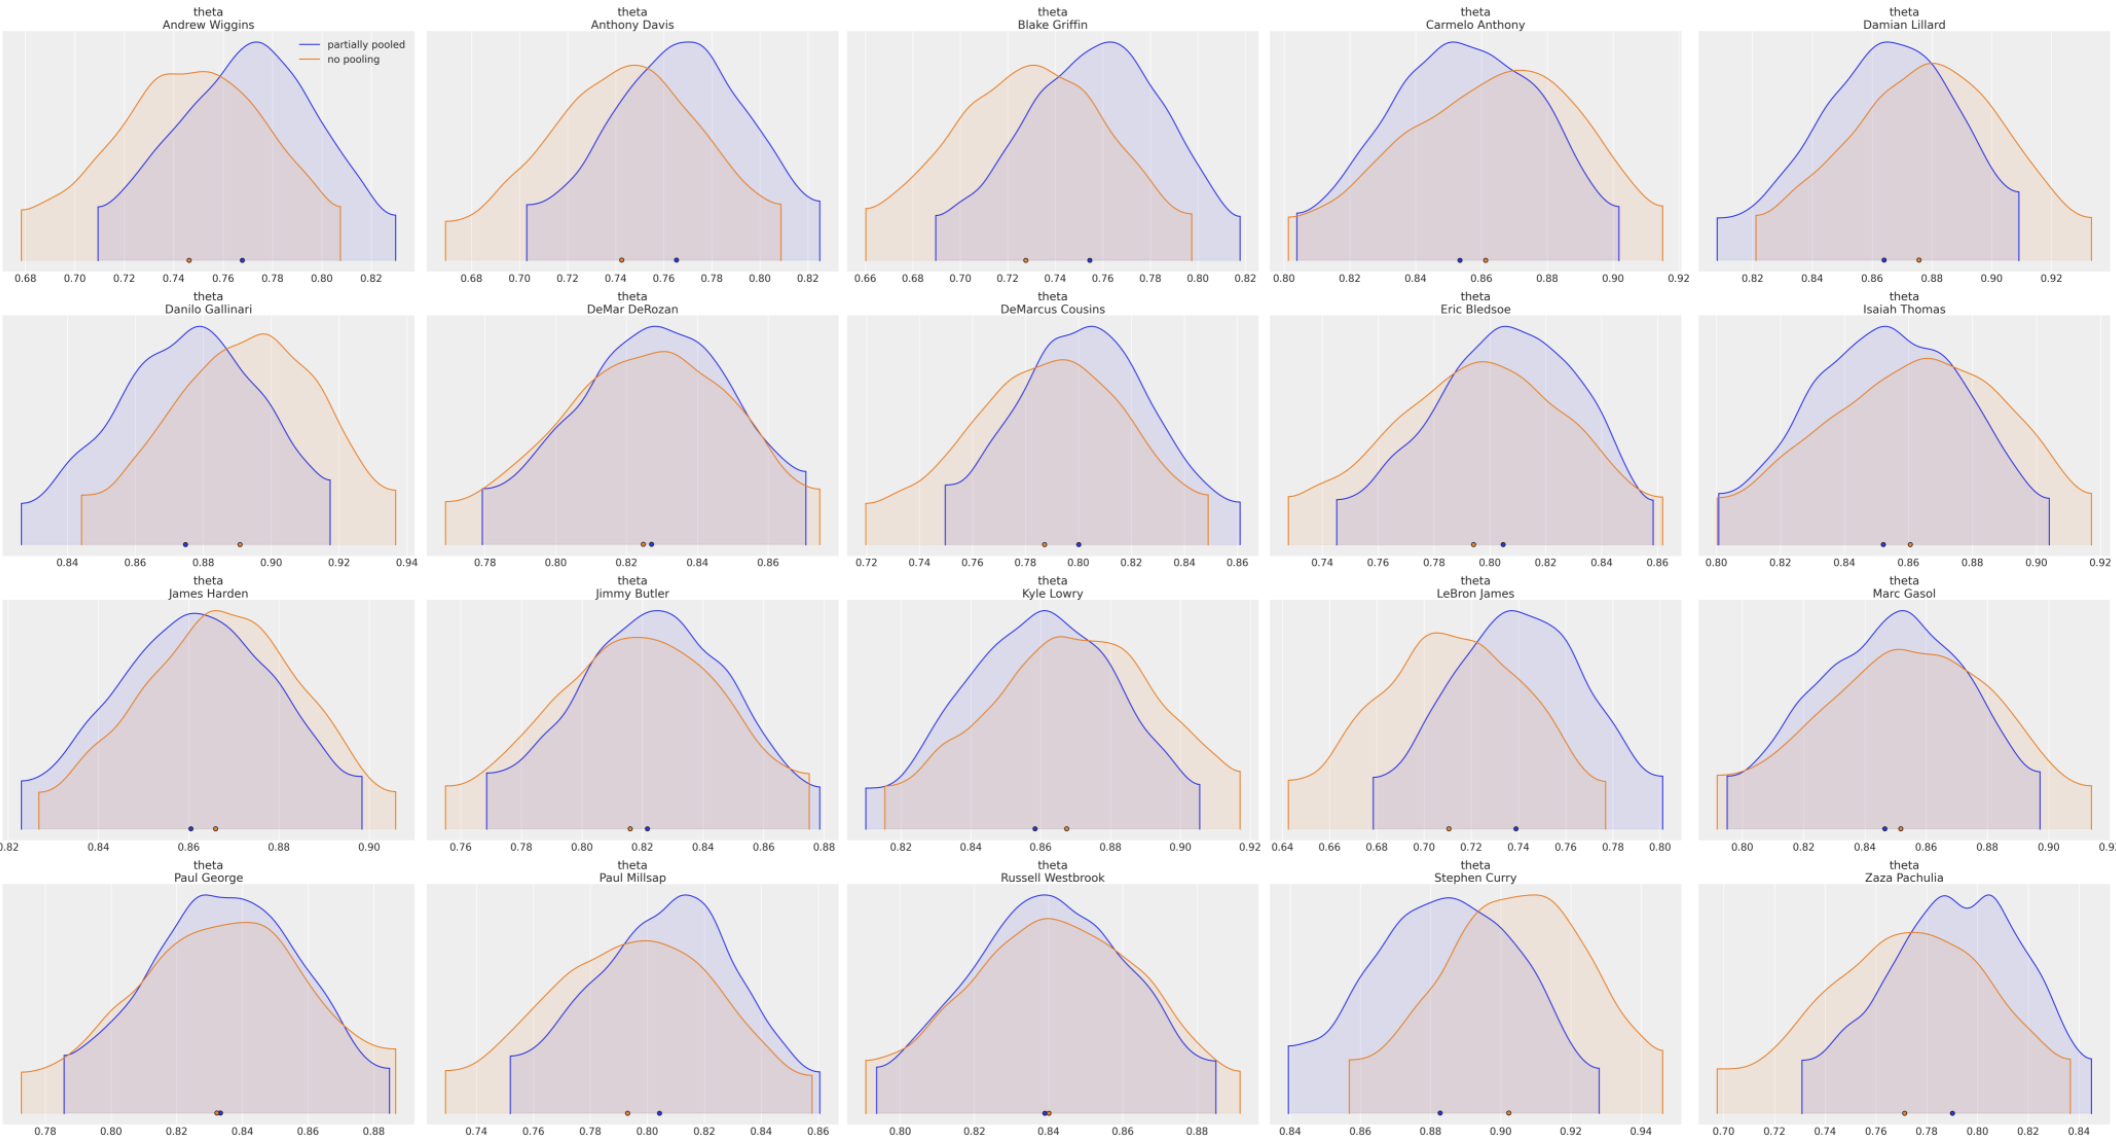
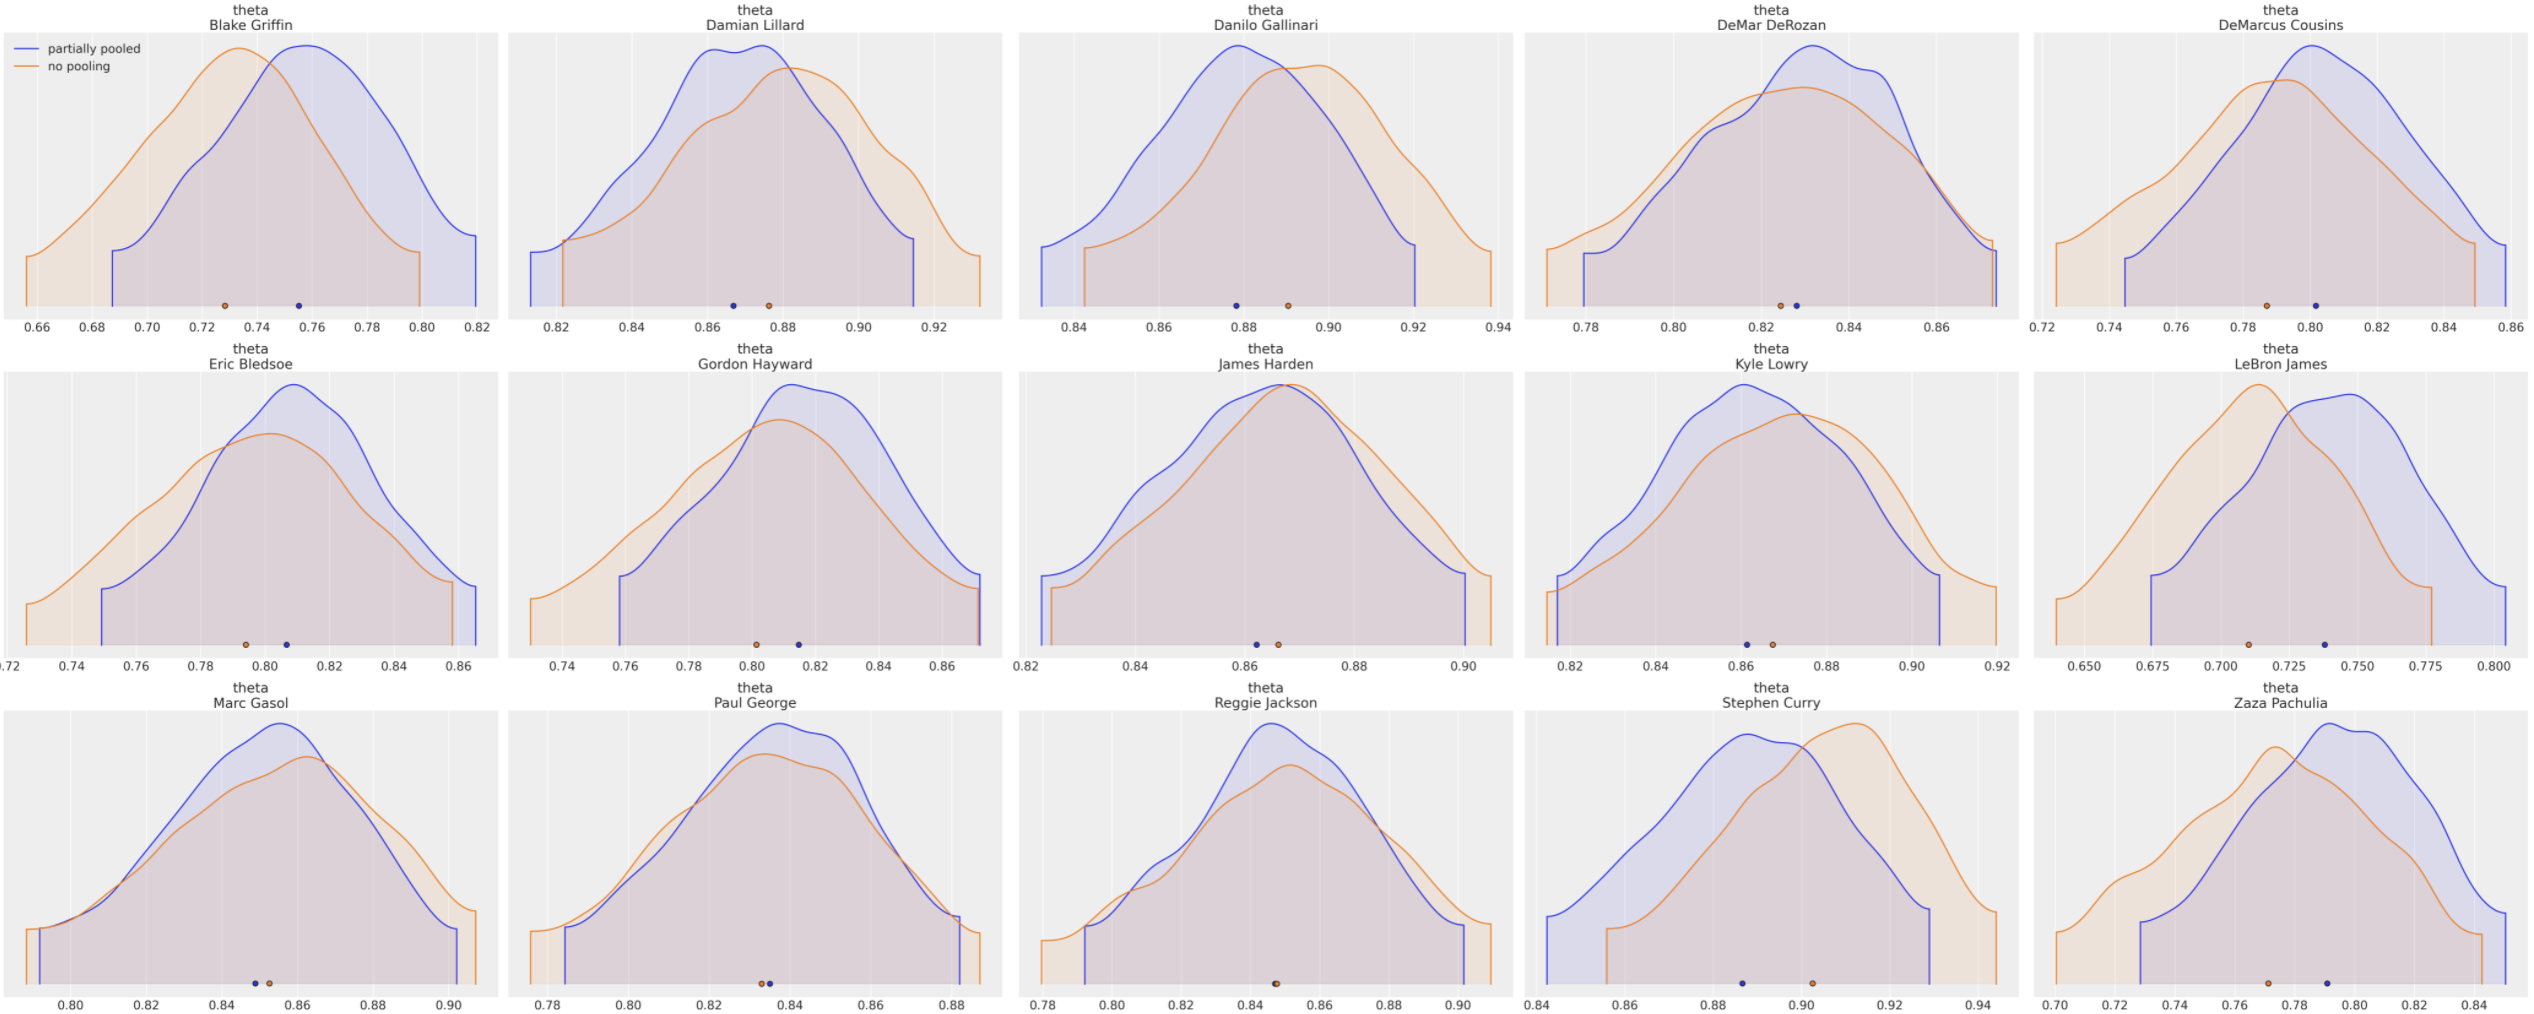
added img

diff --git a/_posts/2020-06-01-hierarchical-models.md b/_posts/2020-06-01-hierarchical-models.md
@@ -33,7 +33,7 @@ I'll use [NBA free throw data](https://www.kaggle.com/sebastianmantey/nba-free-t
 
 ## Overall Model
 
-The three formulations in this post branch out the same canonical model. We have 20 players, $i = 1...20$, and our goal is to estimate the free throw percentage (chance of success) for each one, $\theta_i$. Our data consists of the number of shots made for player $i$, $y_i$, and the number of attempts for each player, $K_i$. Then the number of free throws made, $y_i$, follows a Binomial distribution: 
+The three formulations in this post branch out the same canonical model. We have 15 players, $i = 1...15$, and our goal is to estimate the free throw percentage (chance of success) for each one, $\theta_i$. Our data consists of the number of shots made for player $i$, $y_i$, and the number of attempts for each player, $K_i$. Then the number of free throws made, $y_i$, follows a Binomial distribution: 
 
 $$ p(y_i \mid \theta_i, K_i) = \text{Binomial}(\theta_i, K_i) $$
 
@@ -76,7 +76,7 @@ Posterior distribution for $\theta$ is below. This model is both wrong and usele
 
 
 <p align="center">
-  <img src="/assets/NBA-free-throw-fully-pooled-theta.png" width="75%" height="60%">
+  <img src="/assets/NBA-free-throw-fully-pooled-theta.png" width="75%" height="75%">
 </p>
 
 
@@ -114,6 +114,34 @@ The posterior distributions for each $\theta$ are below:
 
 We ideally want a balance between the two extremes of no-pooling and complete-pooling, and this comes in the form of a partially pooled model. This model has a very subtle but important difference to the `no pooling` model. The difference is in how we generate $\alpha_i$. Instead of sampling $\alpha_i$ directly from $N(-1, 1)$, we estimate the mean, $\mu$, and standard deviation, $\sigma$, of $p(\alpha_i)$ using hyper-priors. Here, $\mu$ can be interpreted as the population chance of success. 
 
+$$ p(y_i \mid K_i, \theta_i) = \text{Binomial}(K_i, \theta) $$
+
+$$ p(y_i \mid K_i, \alpha_i) = \text{BinomialLogit}(K_i, \alpha) $$
+
+$$ p(\alpha_i \mid \mu, \sigma) = \text{Normal}(\mu, \sigma) $$
+
+$$ p(\mu) = N(1, 1) $$
+
+$$ p(\sigma) = N(0, 1) $$
+
+&nbsp;
+
+```python
+def partial_pooling (ft_attempts, ft_makes = None):
+    num_players = ft_attempts.shape[0]
+    mu = numpyro.sample("mu", dist.Normal(1, 1))
+    sigma = numpyro.sample("sigma", dist.Normal(0, 1))
+    with numpyro.plate("players", num_players):
+        alpha = numpyro.sample("alpha", dist.Normal(mu, sigma))
+        theta = numpyro.deterministic("theta", jax.nn.sigmoid(alpha))
+        assert alpha.shape == (num_players, ), "alpha shape wrong"
+        return numpyro.sample("y", dist.BinomialLogits(logits = alpha, total_count = ft_attempts), 
+                              obs = ft_makes)
+```
+
+&nbsp;
+
+We can compare the posterior densities for the no-pooling and partial pooling models. 
 
 <p align="center">
   <img src="/assets/NBA-free-throw-partial-pooling-theta.png" width="100%" height="100%">
